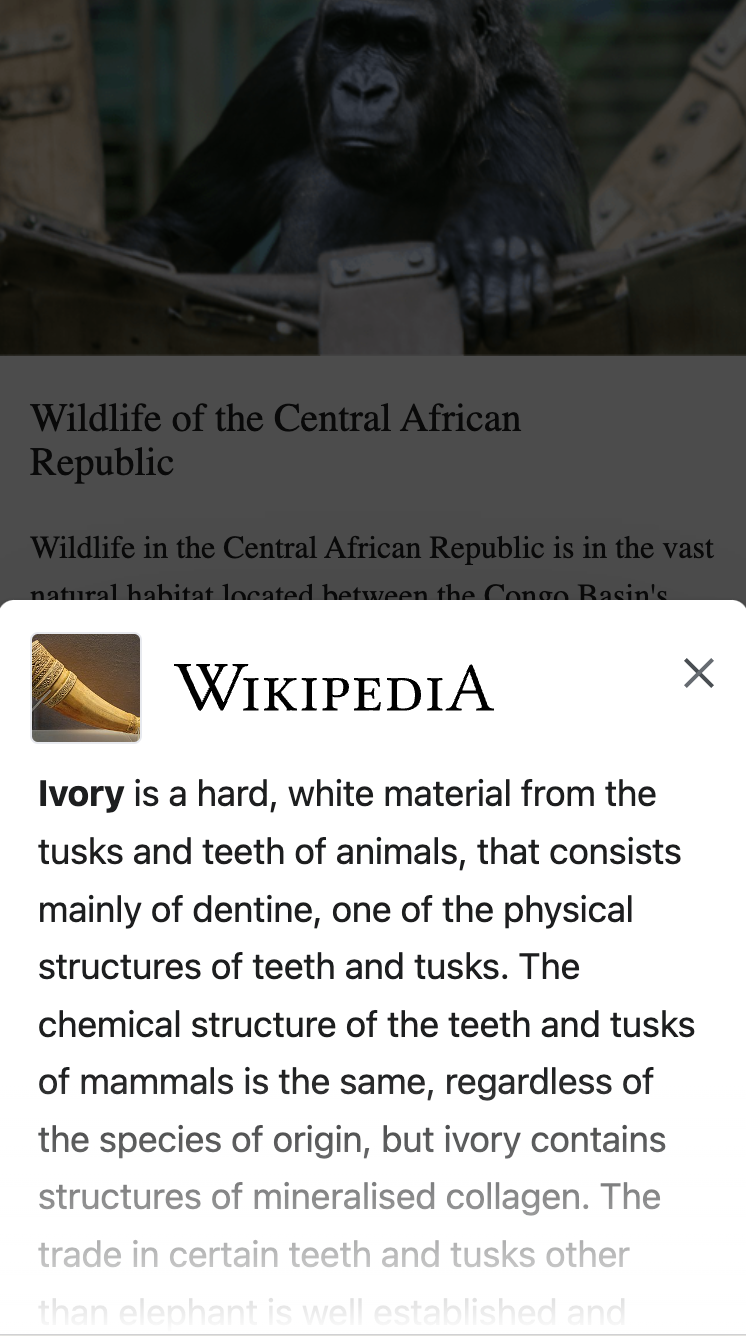
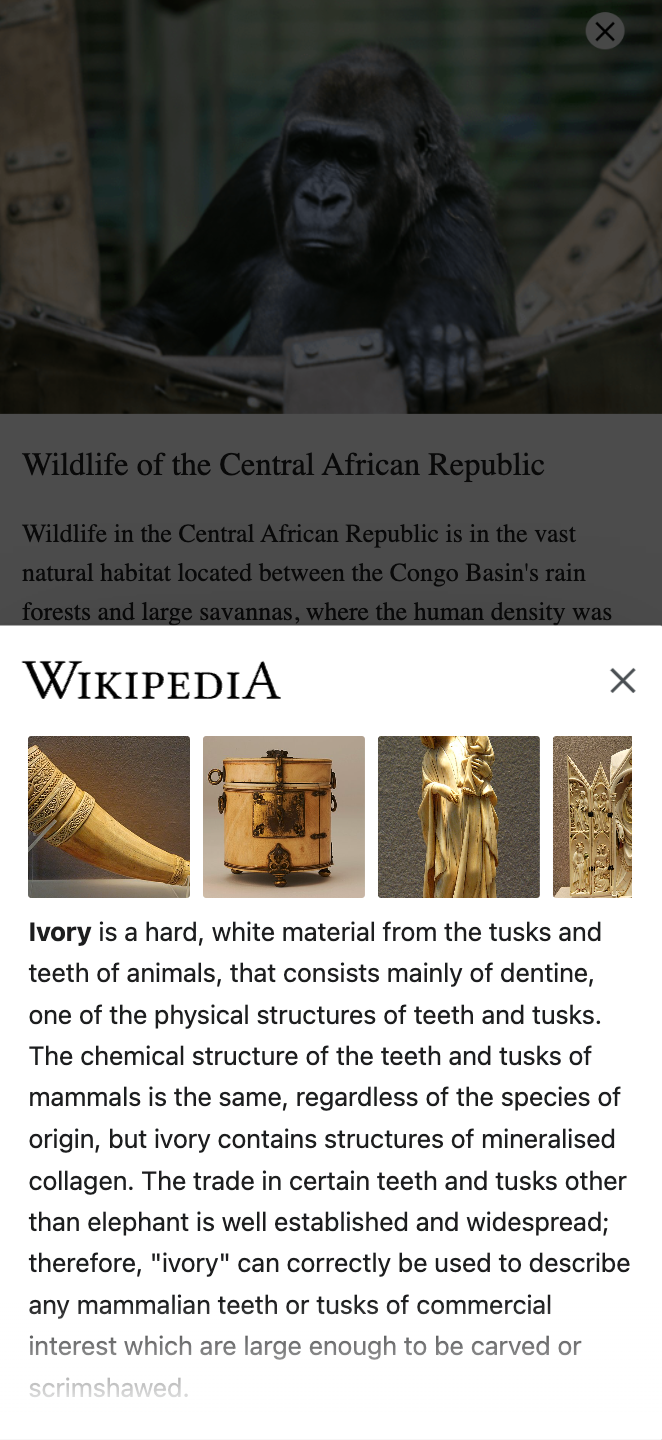
T360753: Update readme images (#219)
* Update readme images

* Add dark mode and gallery

diff --git a/README.md b/README.md
@@ -6,9 +6,9 @@ Wikipedia Preview is a JavaScript component that allows you to provide context f
 
 Tasks and issues are tracked on [Phabricator](https://phabricator.wikimedia.org/project/profile/4393/).
 
-Desktop | Mobile
---- | ---
-<img src="./screenshot-hover.png" height="200" alt="Chat"/> | <img src="./screenshot-touch.png" height="200" alt="Chat"/>
+Desktop | Mobile | Dark mode | Fullscreen gallery
+--- | --- | --- | ---
+<img src="./screenshot-hover.png" height="200" alt="Desktop"/> | <img src="./screenshot-touch.png" height="200" alt="Mobile"/> | <img src="./screenshot-darkmode.png" height="200" alt="Dark"/> | <img src="./screenshot-gallery.png" height="200" alt="Gallery"/>
 
 Storybook: https://wikimedia.github.io/wikipedia-preview/main/storybook
 
